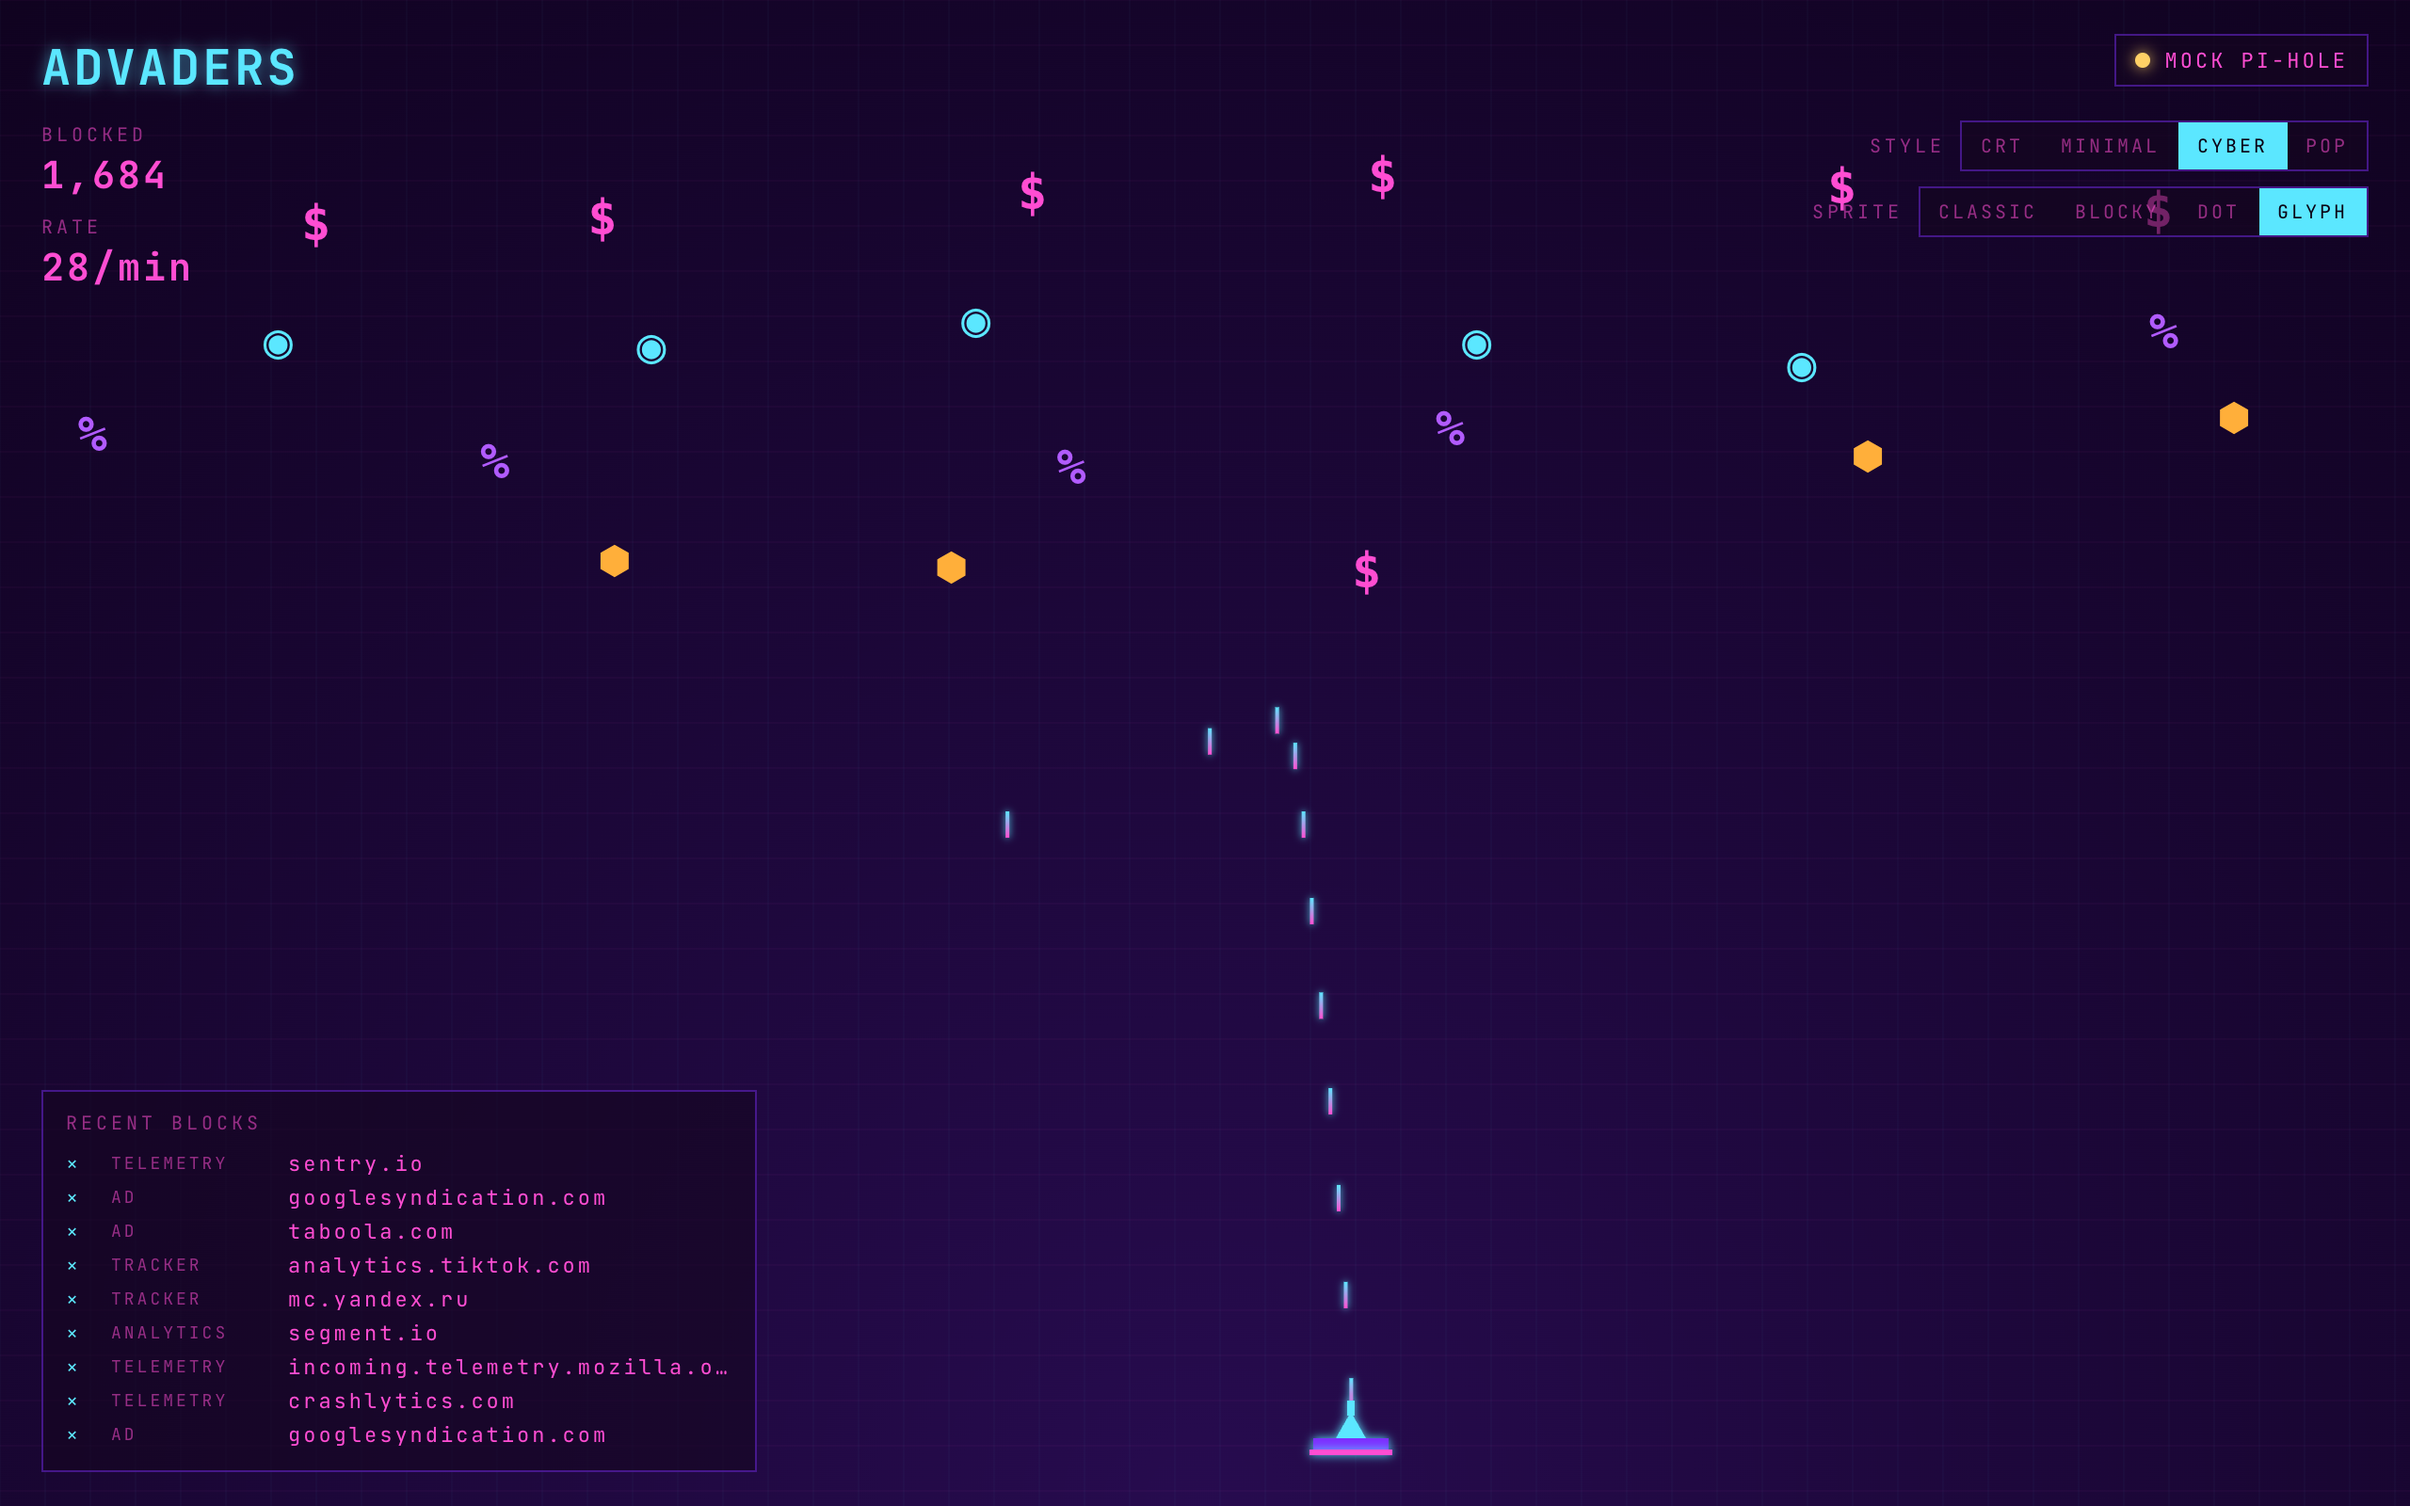
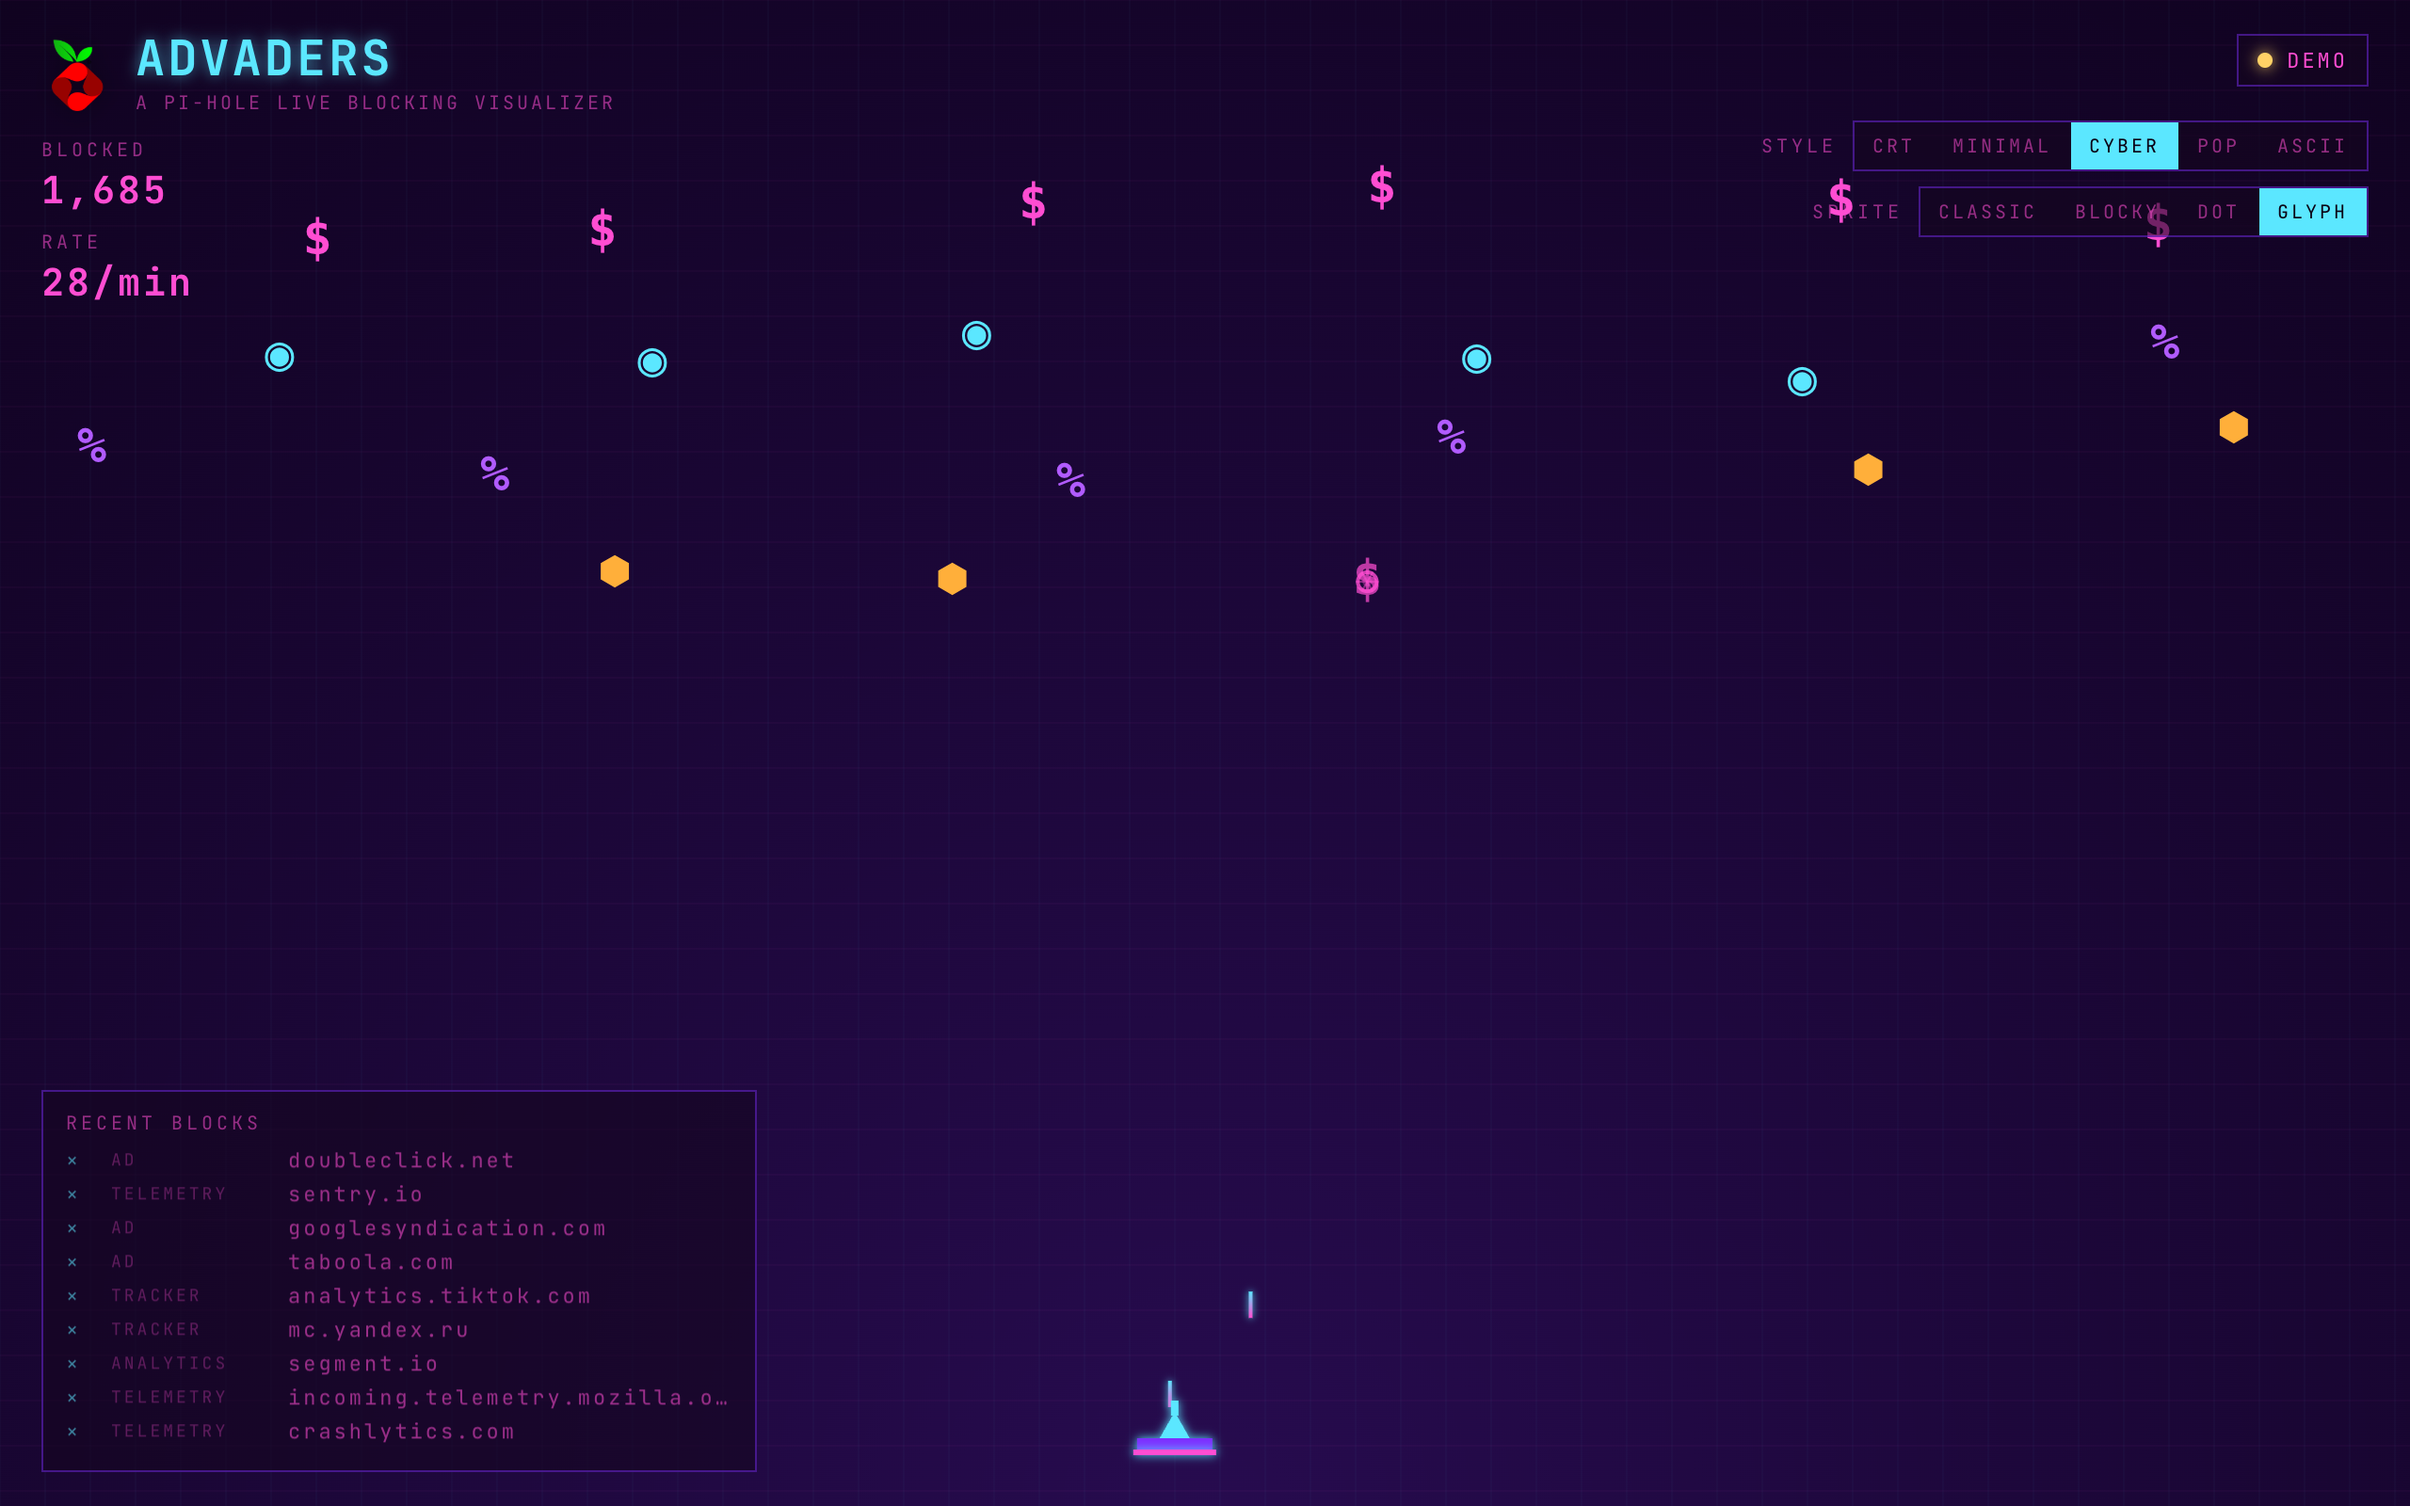
Add ASCII theme, Pi-hole branding, Ko-fi support
- New ASCII theme: green-on-black terminal with `<[Λ]>` defender
  and character-burst explosions (5th theme)
- HUD now shows Pi-hole vortex logo + "a Pi-hole live blocking
  visualizer" subtitle for clearer positioning
- Ko-fi badge + Support section
- .github/FUNDING.yml so GitHub shows the Sponsor button
- Refreshed all 7 screenshots to match

diff --git a/public/game.js b/public/game.js
@@ -275,8 +275,71 @@ const THEMES = {
       ctx.restore();
     },
   },
+  ascii: {
+    name: 'ASCII',
+    bg: '#000000',
+    cat: { ad: '#39ff14', tracker: '#9eff39', analytics: '#39ffd6', telemetry: '#80ff80' },
+    accent: '#39ff14',
+    glow: '#39ff14',
+    drawBg(ctx, w, h) {
+      ctx.save();
+      ctx.fillStyle = 'rgba(57,255,20,0.05)';
+      for (let y = 0; y < h; y += 16) ctx.fillRect(0, y, w, 1);
+      ctx.globalAlpha = 0.04;
+      ctx.fillStyle = '#39ff14';
+      ctx.font = '11px ui-monospace, "JetBrains Mono", monospace';
+      ctx.textBaseline = 'top';
+      const cols = Math.ceil(w / 8);
+      const rows = Math.ceil(h / 14);
+      for (let r = 0; r < rows; r += 4) {
+        for (let c = 0; c < cols; c += 8) {
+          const ch = '01'[(r * 7 + c * 3) % 2];
+          ctx.fillText(ch, c * 8, r * 14);
+        }
+      }
+      ctx.restore();
+    },
+    drawDefender(ctx, x, y, firing) {
+      ctx.save();
+      ctx.fillStyle = '#39ff14';
+      ctx.shadowColor = '#39ff14'; ctx.shadowBlur = 8;
+      ctx.font = '700 18px ui-monospace, "JetBrains Mono", monospace';
+      ctx.textAlign = 'center'; ctx.textBaseline = 'middle';
+      ctx.fillText('<[Λ]>', x, y);
+      if (firing) {
+        ctx.fillStyle = '#aaffaa';
+        ctx.fillText('|', x, y - 14);
+      }
+      ctx.restore();
+    },
+    drawShot(ctx, x, y) {
+      ctx.save();
+      ctx.fillStyle = '#aaffaa';
+      ctx.shadowColor = '#39ff14'; ctx.shadowBlur = 6;
+      ctx.font = '700 16px ui-monospace, "JetBrains Mono", monospace';
+      ctx.textAlign = 'center'; ctx.textBaseline = 'middle';
+      ctx.fillText('|', x, y);
+      ctx.restore();
+    },
+    drawBurst(ctx, x, y, t, color) {
+      const o = 1 - t;
+      ctx.save();
+      ctx.globalAlpha = o;
+      ctx.fillStyle = color;
+      ctx.shadowColor = color; ctx.shadowBlur = 6;
+      ctx.font = `700 ${Math.max(10, 18 - t * 6)}px ui-monospace, monospace`;
+      ctx.textAlign = 'center'; ctx.textBaseline = 'middle';
+      const chars = ['*', '+', '×', '·'];
+      for (let i = 0; i < 8; i++) {
+        const a = (i / 8) * Math.PI * 2;
+        const d = t * 24;
+        ctx.fillText(chars[i % chars.length], x + Math.cos(a) * d, y + Math.sin(a) * d);
+      }
+      ctx.restore();
+    },
+  },
 };
-const THEME_LIST = ['crt', 'minimal', 'cyber', 'pop'];
+const THEME_LIST = ['crt', 'minimal', 'cyber', 'pop', 'ascii'];
 const SPRITE_LIST = ['classic', 'blocky', 'dot', 'glyph'];
 
 function roundRect(ctx, x, y, w, h, r) {

diff --git a/public/style.css b/public/style.css
@@ -50,6 +50,19 @@ body.theme-cyber {
   --letter: 1.5px;
   --scanline-opacity: 0.08;
 }
+body.theme-ascii {
+  --bg: #000000;
+  --fg: #39ff14;
+  --fg-dim: rgba(57, 255, 20, 0.55);
+  --accent: #aaffaa;
+  --border: rgba(57, 255, 20, 0.35);
+  --panel: rgba(0, 16, 0, 0.7);
+  --panel-strong: rgba(0, 12, 0, 0.95);
+  --shadow-glow: 0 0 6px rgba(57, 255, 20, 0.6);
+  --font: "JetBrains Mono", ui-monospace, monospace;
+  --letter: 1px;
+  --scanline-opacity: 0.12;
+}
 body.theme-pop {
   --bg: #ffe6c4;
   --fg: #3a1a1a;
@@ -96,13 +109,32 @@ body.theme-pop .status-line { font-family: var(--font-body); }
 .hud-tr { top: 18px; right: 22px; text-align: right; pointer-events: auto; }
 .hud-bl { bottom: 18px; left: 22px; max-width: 380px; }
 
+.title-row {
+  display: flex;
+  align-items: center;
+  gap: 12px;
+  margin-bottom: 12px;
+}
+.pihole-icon {
+  width: 38px;
+  height: 38px;
+  filter: drop-shadow(0 0 6px rgba(0, 0, 0, 0.35));
+  flex-shrink: 0;
+}
 .title {
   font-size: 26px;
   font-weight: 700;
   color: var(--accent);
   text-shadow: var(--shadow-glow);
-  margin-bottom: 12px;
   text-transform: uppercase;
+  line-height: 1;
+}
+.subtitle {
+  font-size: 10px;
+  letter-spacing: 1.5px;
+  text-transform: uppercase;
+  color: var(--fg-dim);
+  margin-top: 4px;
 }
 body.theme-pop .title { font-size: 18px; }
 body.theme-minimal .title { font-size: 18px; font-weight: 600; text-shadow: none; letter-spacing: -0.5px; }

diff --git a/public/index.html b/public/index.html
@@ -13,7 +13,13 @@
   <canvas id="game"></canvas>
 
   <div class="hud hud-tl" id="hud-stats">
-    <div class="title" id="hud-title">ADVADERS</div>
+    <div class="title-row">
+      <img src="https://github.com/pi-hole/graphics/raw/master/Vortex/Vortex.png" alt="Pi-hole" class="pihole-icon" />
+      <div>
+        <div class="title" id="hud-title">ADVADERS</div>
+        <div class="subtitle">a Pi-hole live blocking visualizer</div>
+      </div>
+    </div>
     <div class="stat-row"><span class="stat-label">BLOCKED</span><span class="stat-val" id="hud-blocked">0</span></div>
     <div class="stat-row"><span class="stat-label">RATE</span><span class="stat-val" id="hud-rate">0/min</span></div>
   </div>

diff --git a/scripts/screenshots.js b/scripts/screenshots.js
@@ -25,8 +25,9 @@ const SHOTS = [
   { theme: 'minimal', sprite: 'classic' },
   { theme: 'cyber',   sprite: 'classic' },
   { theme: 'pop',     sprite: 'classic' },
-  { theme: 'cyber',   sprite: 'glyph', file: 'cyber-glyph' },
-  { theme: 'pop',     sprite: 'dot',   file: 'pop-dot' },
+  { theme: 'ascii',   sprite: 'glyph',   file: 'ascii' },
+  { theme: 'cyber',   sprite: 'glyph',   file: 'cyber-glyph' },
+  { theme: 'pop',     sprite: 'dot',     file: 'pop-dot' },
 ];
 
 (async () => {

diff --git a/README.md b/README.md
@@ -1,16 +1,26 @@
-# Advaders
+<h1 align="center">
+  Advaders
+  <br>
+  <sub><sup>a Pi-hole live blocking visualizer</sup></sub>
+</h1>
 
-[![build](https://github.com/milouk/advaders/actions/workflows/build.yml/badge.svg)](https://github.com/milouk/advaders/actions/workflows/build.yml)
-[![pages](https://github.com/milouk/advaders/actions/workflows/pages.yml/badge.svg)](https://milouk.me/advaders/)
-[![ghcr](https://img.shields.io/badge/ghcr.io-milouk%2Fadvaders-2496ED?logo=docker&logoColor=white)](https://github.com/milouk/advaders/pkgs/container/advaders)
-[![image size](https://ghcr-badge.egpl.dev/milouk/advaders/size?tag=latest&label=image%20size)](https://github.com/milouk/advaders/pkgs/container/advaders)
-[![pulls](https://ghcr-badge.egpl.dev/milouk/advaders/pulls?label=pulls)](https://github.com/milouk/advaders/pkgs/container/advaders)
-[![stars](https://img.shields.io/github/stars/milouk/advaders?style=flat&logo=github)](https://github.com/milouk/advaders)
-[![license](https://img.shields.io/badge/license-MIT-blue.svg)](LICENSE)
+<p align="center">
+  <a href="https://pi-hole.net"><img alt="Pi-hole" src="https://github.com/pi-hole/graphics/raw/master/Vortex/Vortex.png" height="60"></a>
+</p>
 
-> Pi-hole ad blocking, visualized as a passive Space Invaders arcade.
+<p align="center">
+  <a href="https://github.com/milouk/advaders/actions/workflows/build.yml"><img alt="build" src="https://github.com/milouk/advaders/actions/workflows/build.yml/badge.svg"></a>
+  <a href="https://milouk.me/advaders/"><img alt="pages" src="https://github.com/milouk/advaders/actions/workflows/pages.yml/badge.svg"></a>
+  <a href="https://github.com/milouk/advaders/pkgs/container/advaders"><img alt="ghcr" src="https://img.shields.io/badge/ghcr.io-milouk%2Fadvaders-2496ED?logo=docker&logoColor=white"></a>
+  <a href="https://github.com/milouk/advaders"><img alt="stars" src="https://img.shields.io/github/stars/milouk/advaders?style=flat&logo=github"></a>
+  <a href="https://github.com/milouk/advaders/commits/main"><img alt="last commit" src="https://img.shields.io/github/last-commit/milouk/advaders?logo=github"></a>
+  <a href="LICENSE"><img alt="license" src="https://img.shields.io/badge/license-MIT-blue.svg"></a>
+  <a href="https://ko-fi.com/milouk"><img alt="ko-fi" src="https://img.shields.io/badge/ko--fi-buy_me_a_coffee-FF5E5B?logo=ko-fi&logoColor=white"></a>
+</p>
 
-Blocked DNS queries fall from the top as invaders. The Pi-hole defender at the bottom auto-targets and zaps them. It never misses — every blocked query gets visually destroyed, just like Pi-hole itself. Live data via the Pi-hole v6 API; no Pi-hole? The frontend runs a built-in demo automatically.
+> A companion visualizer for [**Pi-hole**](https://pi-hole.net/). Every blocked DNS query falls from the top as a Space Invader; the defender at the bottom auto-zaps each one. It never misses — Pi-hole always blocks, so the visualization always lands the shot.
+
+Live data via the Pi-hole v6 API. No Pi-hole? The frontend runs a built-in demo automatically — that's how the [live demo](https://milouk.me/advaders/) works.
 
 **🕹 Try the live demo: <https://milouk.me/advaders/>**
 
@@ -20,7 +30,7 @@ Zero-config self-host: `docker run -p 3000:3000 ghcr.io/milouk/advaders:latest` 
 
 ## Themes
 
-Four full visual languages, switchable from the top-right toolbar. Selection persists across reloads.
+Five full visual languages, switchable from the top-right toolbar. Selection persists across reloads.
 
 ### A · Retro CRT
 
@@ -45,6 +55,12 @@ Magenta/cyan glow, scanline grid, radial vignette.
 Bold colors, chunky borders, drop-shadow comic style.
 
 ![Pop](docs/screenshots/pop.png)
+
+### E · ASCII
+
+Pure terminal: green-on-black, ASCII defender (`<[Λ]>`), `|` shots, character-burst explosions.
+
+![ASCII](docs/screenshots/ascii.png)
 
 ## Sprite styles
 
@@ -140,6 +156,12 @@ The browser polls `api/queries?since=<ts>`; the server proxies to Pi-hole, filte
 ## Contributing
 
 PRs welcome — open an issue first if you're planning anything substantial. The code is intentionally small and dependency-free; please keep it that way.
+
+## Support
+
+If Advaders made you smile while watching ads die, consider buying me a coffee — it keeps the lasers green.
+
+<a href="https://ko-fi.com/milouk"><img height="36" alt="Buy Me a Coffee at ko-fi.com" src="https://storage.ko-fi.com/cdn/kofi3.png?v=6" /></a>
 
 ## License
 
